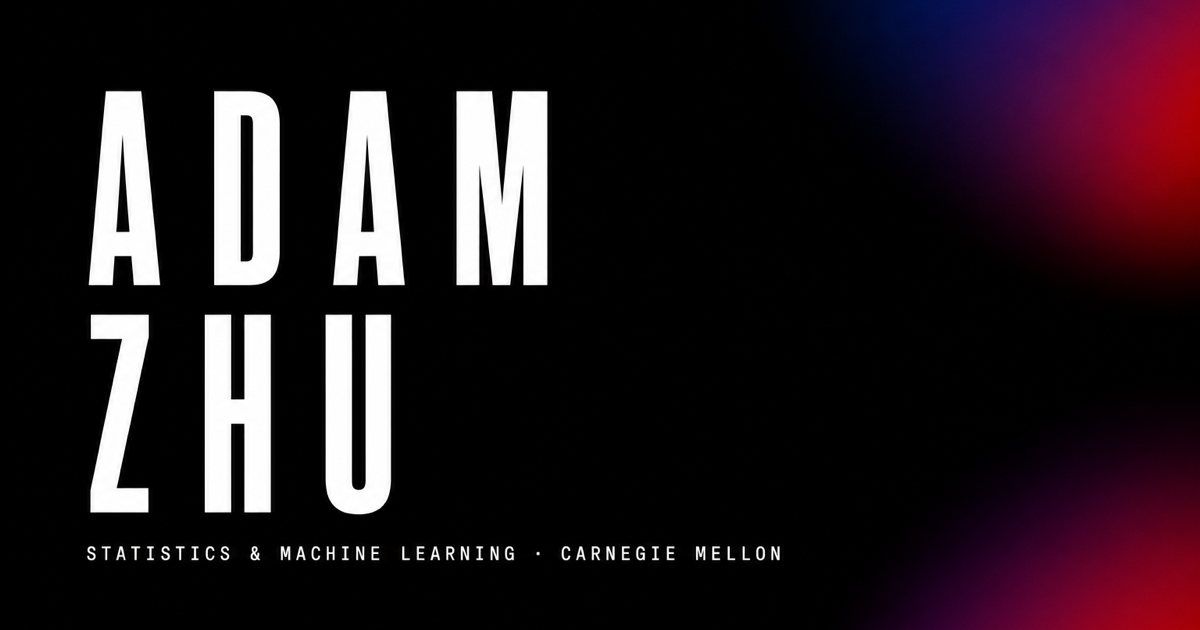
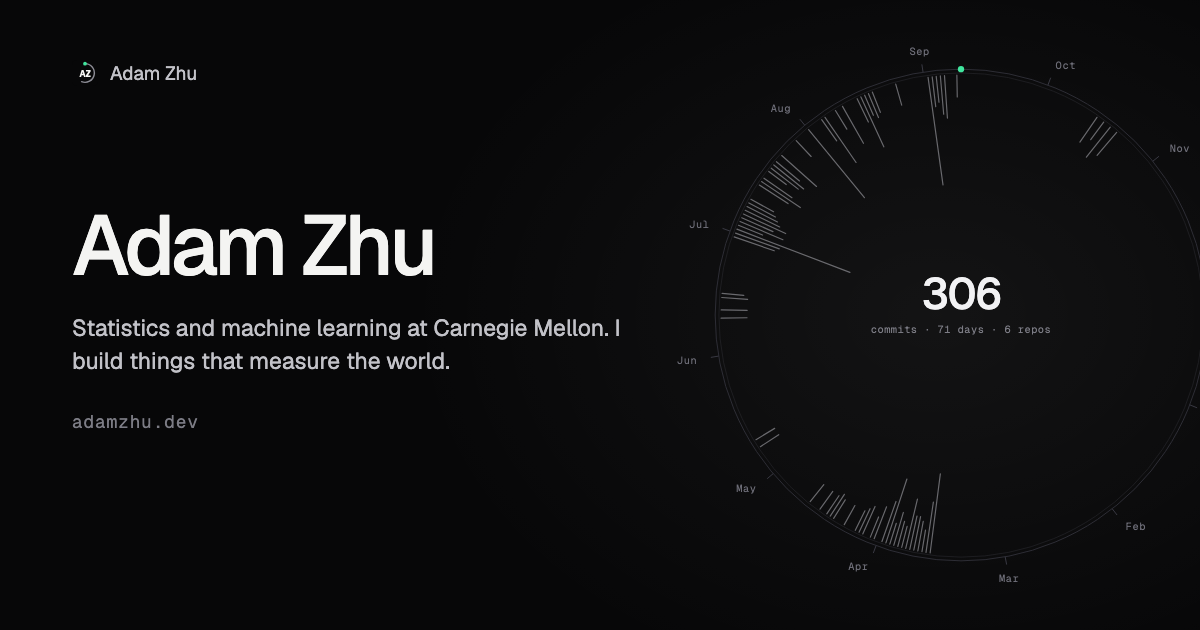
Launch the redesigned site at adamzhu.dev: CNAME, canonical, sitemap, share URLs, and the regenerated share card
Combines:
- Point the site at adamzhu.dev: CNAME, canonical, sitemap and share URLs
- Regenerate the share card in the new design, drawn from the live commit data
- Launch the redesigned site: commit wheel, TrueLine explainer, adamzhu.dev

diff --git a/index.html b/index.html
@@ -18,7 +18,7 @@
     />
     <meta name="author" content="Adam Zhu" />
     <meta name="theme-color" content="#070708" />
-    <link rel="canonical" href="https://adam-zhu1.github.io/" />
+    <link rel="canonical" href="https://adamzhu.dev/" />
 
     <meta property="og:title" content="Adam Zhu | Statistics &amp; Machine Learning, Carnegie Mellon" />
     <meta
@@ -26,11 +26,11 @@
       content="Statistics & Machine Learning undergrad at Carnegie Mellon. NIST research intern, builder of TrueLine (iOS computer-vision bowling tracker), forensic-statistics research, and a co-authored publication."
     />
     <meta property="og:type" content="website" />
-    <meta property="og:url" content="https://adam-zhu1.github.io/" />
+    <meta property="og:url" content="https://adamzhu.dev/" />
     <meta property="og:site_name" content="Adam Zhu" />
     <meta property="og:locale" content="en_US" />
-    <meta property="og:image" content="https://adam-zhu1.github.io/og-image.png" />
-    <meta property="og:image:secure_url" content="https://adam-zhu1.github.io/og-image.png" />
+    <meta property="og:image" content="https://adamzhu.dev/og-image.png" />
+    <meta property="og:image:secure_url" content="https://adamzhu.dev/og-image.png" />
     <meta property="og:image:type" content="image/png" />
     <meta property="og:image:width" content="1200" />
     <meta property="og:image:height" content="630" />
@@ -42,7 +42,7 @@
       name="twitter:description"
       content="Statistics & Machine Learning undergrad at Carnegie Mellon. NIST research intern, builder of TrueLine (iOS computer-vision bowling tracker), forensic-statistics research, and a co-authored publication."
     />
-    <meta name="twitter:image" content="https://adam-zhu1.github.io/og-image.png" />
+    <meta name="twitter:image" content="https://adamzhu.dev/og-image.png" />
     <meta name="twitter:image:alt" content="Adam Zhu | Statistics & Machine Learning, Carnegie Mellon" />
 
     <script type="application/ld+json">
@@ -50,8 +50,8 @@
         "@context": "https://schema.org",
         "@type": "Person",
         "name": "Adam Zhu",
-        "url": "https://adam-zhu1.github.io/",
-        "image": "https://adam-zhu1.github.io/og-image.png",
+        "url": "https://adamzhu.dev/",
+        "image": "https://adamzhu.dev/og-image.png",
         "jobTitle": "Statistics & Machine Learning Student",
         "email": "mailto:adamzhu@andrew.cmu.edu",
         "affiliation": {
